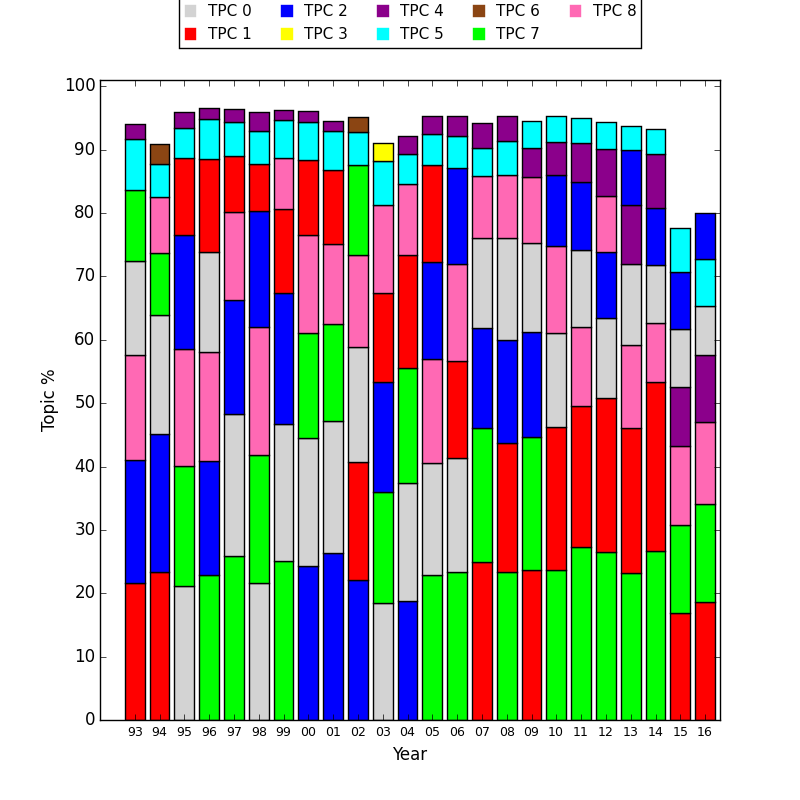
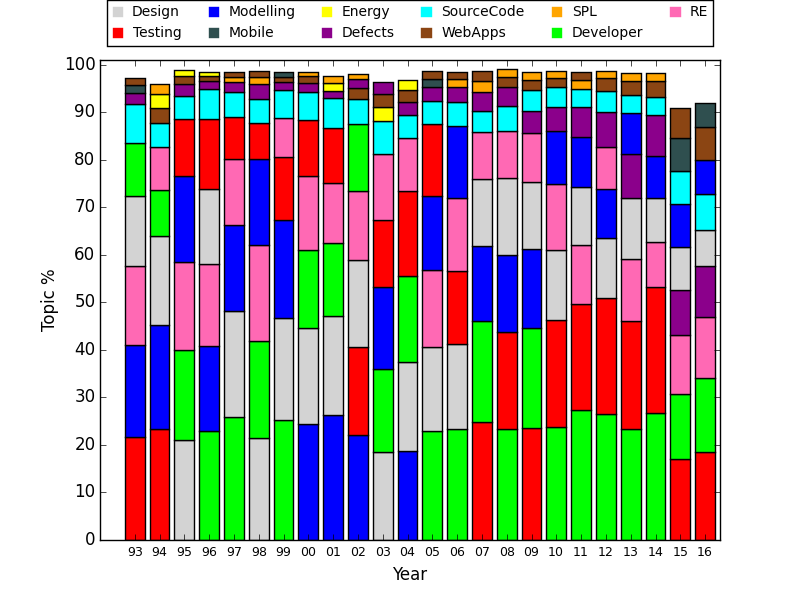
Topic Dist and Trend

diff --git a/expts_v2.py b/expts_v2.py
@@ -23,7 +23,9 @@ N_TOPICS = 11
 ALPHA = 0.22359
 BETA = 0.53915
 ITERATIONS = 100
-TOPICS = ["TPC %d" % d for d in range(11)]
+# TOPICS = ["TPC %d" % d for d in range(11)]
+TOPICS = ["Design", "Testing", "Modelling", "Mobile", "Energy", "Defects",
+          "SourceCode", "WebApps", "SPL", "Developer", "RE"]
 
 dendo_11_settings = O(
     fig_size=(6, 8),
@@ -204,7 +206,7 @@ def topic_evolution():
   x_axis = np.arange(1, len(yt_map.keys()) + 1)
   y_offset = np.array([0] * len(yt_map.keys()))
   colors_dict = {}
-  top_topic_count = 7
+  top_topic_count = 9
   for index in range(top_topic_count):
     bar_val, color = [], []
     for year in sorted(yt_map.keys(), key=lambda x: int(x)):
@@ -223,7 +225,7 @@ def topic_evolution():
   patches = []
   for index, (topic, color) in enumerate(colors_dict.items()):
     patches.append(mpatches.Patch(color=color, label='Topic %s' % str(topic)))
-  plt.legend(tuple(patches), tuple(TOPICS), loc='upper center', bbox_to_anchor=(0.5, 1.14), ncol=5, fontsize=11,
+  plt.legend(tuple(patches), tuple(TOPICS), loc='upper center', bbox_to_anchor=(0.5, 1.14), ncol=6, fontsize=10,
              handlelength=0.7)
   plt.savefig("figs/v2/topic_evolution/topic_evolution_7.png")
   plt.clf()
@@ -277,8 +279,8 @@ def pc_topics_heatmap(fig_name, dendo_settings, paper_range=None):
 
 
 if __name__ == "__main__":
-  conference_diversity("heatmap_93_00", dendo_11_settings, range(1993, 2001))
-  conference_diversity("heatmap_01_08", dendo_14_settings, range(2001, 2009))
-  conference_diversity("heatmap_09_16", dendo_16_settings, range(2009, 2017))
-  pc_topics_heatmap("pc_heatmap_09_16", dendo_16_settings, range(2009, 2017))
+  # conference_diversity("heatmap_93_00", dendo_11_settings, range(1993, 2001))
+  # conference_diversity("heatmap_01_08", dendo_14_settings, range(2001, 2009))
+  # conference_diversity("heatmap_09_16", dendo_16_settings, range(2009, 2017))
+  # pc_topics_heatmap("pc_heatmap_09_16", dendo_16_settings, range(2009, 2017))
   topic_evolution()
